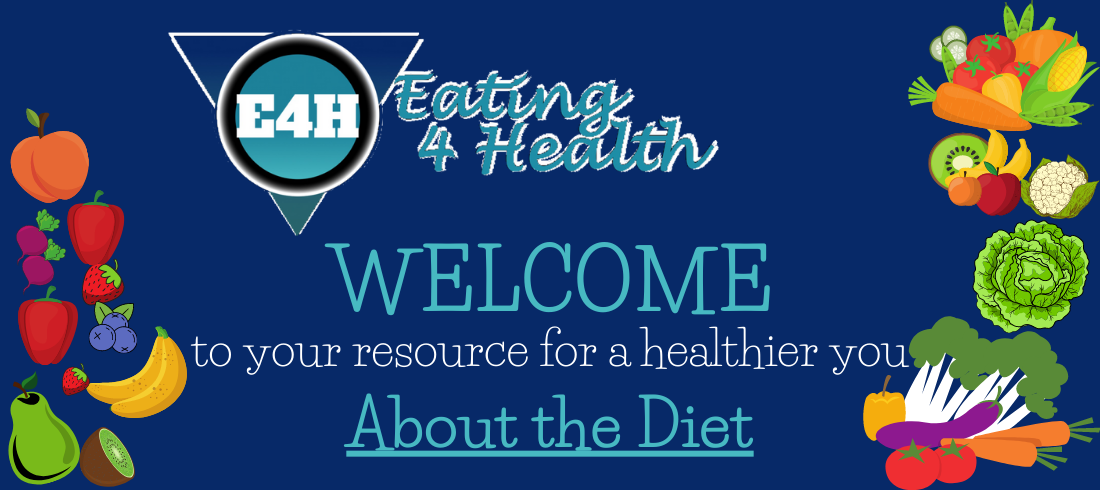
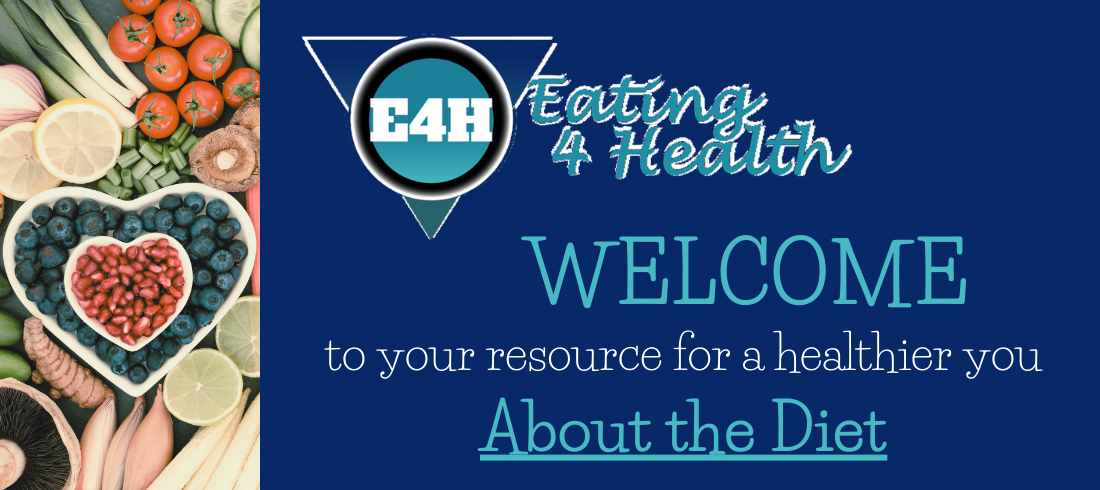
finished layout of welcome page

diff --git a/view/welcome.php b/view/welcome.php
@@ -9,14 +9,14 @@
     </ol>
     <div class="carousel-inner">
       <div class="carousel-item active" data-bs-interval="30000">
-        <a href="diet.php"><img src="images/welcome_carousel.png" class="d-block w-100" alt="..."></a>
+        <a href="diet.php"><img src="images/welcome_carousel.png" class="d-block w-100" alt="slide to welcome users with link to the diet"></a>
       </div>
       <div class="carousel-item" data-bs-interval="30000">
-        <a href="about-membership.php"><img src="images/membership_carousel.png" class="d-block w-100" alt="..."></a>
+        <a href="about-membership.php"><img src="images/membership_carousel.png" class="d-block w-100" alt="slide about benefits of membership with link to About Membership"></a>
       </div>
       <div class="carousel-item" data-bs-interval="30000">
         <a href="https://www.newbeginningsfmc.com/about" target="_blank">
-          <img src="images/NBFM_carousel.png" class="d-block w-100" alt="..."></a>
+          <img src="images/NBFM_carousel.png" class="d-block w-100" alt="slide with link to New Beginnings Functional Medicine website"></a>
       </div>
     </div>
     <a class="carousel-control-prev" href="#carouselExampleIndicators" role="button" data-slide="prev">
@@ -27,13 +27,43 @@
       <span class="carousel-control-next-icon" aria-hidden="true"></span>
       <span class="sr-only">Next</span>
     </a>
+  </div>
 </div>
+<hr>
+
+<div class="row">
+  <div class="col-lg-6">
+    <h3 class="logo-font text-center" style="font-family: 'Kaushan Script', cursive;"><u>Eating4Health</u></h3>
+    <p>This website is specifically designed to support those following Dr. Shannon&rsquo;s anti-inflammatory&#47;
+        elimination diet. Here are some public resources for support&colon;</p>
+    <ul>
+      <li><a href="diet.php">The Diet</a> - details about what to eat and what not to eat</li>
+      <li><a href="recipes-public.php">Recipe Links</a> - links to recipes that fit either phases of the diet</li>
+      <li><a href="resources.php">Resources</a> - additional resources to support healthy living</li>
+    </ul>
+    <p>To learn more about Dr. Shannon and New Beginnings Functional medicine, check out <a href="https://www.newbeginningsfmc.com/" target="_blank">
+        www.newbeginningsfmc.com</a>. Learn more about a free 15 minute consultation about your health concerns and needs.</p>
+  </div>
+  <div class="col-lg-6">
+    <a href="about-membership.php">
+    <img src="images/tile_membership.png" alt="information about becoming a member, click here" width="100%"></a>
+  </div>
+</div>
+<hr>
+<div class="row justify-content-md-center">
+  <div class="col-lg-8">
+    <img src="images/site-tour_open-slide.png" alt="placeholder for site tour video" width="100%">
+    <!-- iframe for tutorial video:
+    <div class="embed-responsive embed-responsive-16by9">
+      <iframe class="embed-responsive-item" src="https://www.youtube.com/embed/zpOULjyy-n8?rel=0" allowfullscreen></iframe>
+    </div> -->
+  </div>
 </div>
 
-  <br>
+<hr><br>
 <div class="container text-center">    
-  <h3>Spring &amp; Summer Recipes</h3><br>
-  <div class="row">
+  <h3 style="font-family: 'Kaushan Script', cursive;"><u>Spring &amp; Summer Recipes</u></h3><br>
+  <div class="row justify-content-md-center ">
     <div class="card mb-3" style="max-width: 540px;">
       <div class="row g-0">
         <div class="col-md-4">
@@ -68,7 +98,7 @@
     </div>
   </div>
 
-  <div class="row">
+  <div class="row justify-content-md-center ">
     <div class="card mb-3" style="max-width: 540px;">
       <div class="row g-0">
         <div class="col-md-4">

diff --git a/view/header.php b/view/header.php
@@ -5,12 +5,14 @@
     <meta charset="utf-8">
     <meta name="viewport" content="width=device-width, initial-scale=1, shrink-to-fit=no">
 
-    <link rel="icon" href="images/icon.png" type="image/png">
+    <link rel="icon" href="images/logo.png" type="image/png">
 
     <!-- Bootstrap CSS -->
     <link rel="stylesheet" type="text/css" href="css/bootstrap.css">
-
     <link rel="stylesheet" type="text/css" href="css/main.css">
+    <style>
+      @import url('https://fonts.googleapis.com/css2?family=Kaushan+Script&display=swap');
+    </style>
 
     <style>
     table, th, td {
@@ -38,6 +40,10 @@
       </div>
 
     <nav class="navbar topnav">
+      <!--Bootstrap hamburger menu--needs to be on left-->
+      <!-- <button class="navbar-toggler" type="button" data-toggle="collapse" data-target="#navbarTogglerDemo01" aria-controls="navbarTogglerDemo01" aria-expanded="false" aria-label="Toggle navigation">
+        <span class="navbar-toggler-icon"></span>
+      </button> -->
       <ul class="nav nav-pills">
         <li class="nav-item">
           <a class="nav-link" href="welcome.php">Home</a>
